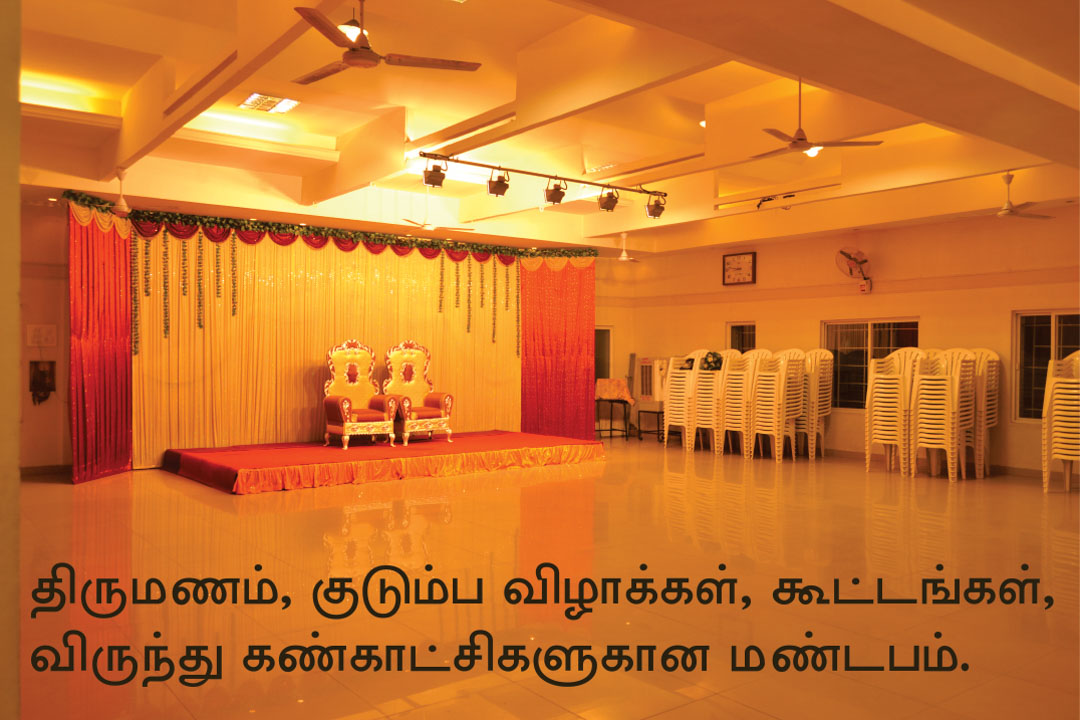
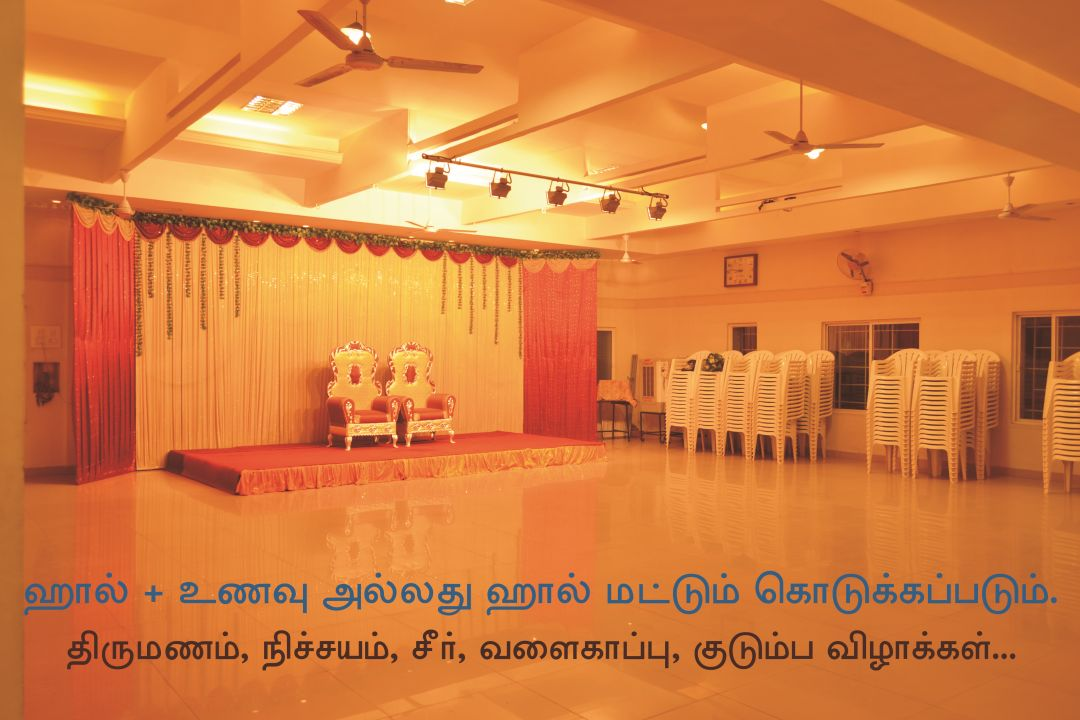
feat: mm content changes

diff --git a/docs/gallery.php.html b/docs/gallery.php.html
@@ -120,7 +120,7 @@
                 <div class="gallery-image-card"><img src="01_You%20can%20choose%20from%20a%20variety%20of%20backdrops_Best%20marriage%20hall%20on%20Trichy%20Road,%20near%20Ondipudur,%20Sulur.jpg" class="img-responsive" alt="Best marriage hall on Trichy Road, near Ondipudur, Sulur"><div class="gallery-img-tag-container text-center"><span class="display-5">You can choose from a variety of backdrops</span></div></div><div class="gallery-image-card"><img src="02_Hall%20is%20located%20on%20Trichy%20road_Easily%20reachable%20hall%20on%20main%20road,%20Coimbatore.jpg" class="img-responsive" alt="Easily reachable hall on main road, Coimbatore"><div class="gallery-img-tag-container text-center"><span class="display-5">Hall is located on Trichy road</span></div></div><div class="gallery-image-card"><img src="03_Another%20part%20of%20dining_Mini%20function%20hall%20near%20S%20I%20H%20S%20colony,%20SIHS%20colony.jpg" class="img-responsive" alt="Mini function hall near S I H S colony, SIHS colony"><div class="gallery-img-tag-container text-center"><span class="display-5">Another part of dining</span></div></div><div class="gallery-image-card"><img src="04_In-house%20full%20genset%20backup_Function%20Hall%20with%20Genset%20backup%20at%20Coimbatore.jpg" class="img-responsive" alt="Function Hall with Genset backup at Coimbatore"><div class="gallery-img-tag-container text-center"><span class="display-5">In-house full genset backup</span></div></div><div class="gallery-image-card"><img src="05_Backdrop%20with%20planters_Hall%20near%20Pappampatti,%20Kelangal,%20Ravathur,%20Sulur,%20Kadampadi,%20Peelamedu,%20Kannampalayam,%20Nadupalayam.jpg" class="img-responsive" alt="Hall near Pappampatti, Kelangal, Ravathur, Sulur, Kadampadi, Peelamedu, Kannampalayam, Nadupalayam"><div class="gallery-img-tag-container text-center"><span class="display-5">Backdrop with planters</span></div></div><div class="gallery-image-card"><img src="06_Another%20attractive%20background_Marriage%20hall,%20venue%20near%20Vellalore,%20Peedampalli,%20Coimbatore.jpg" class="img-responsive" alt="Marriage hall, venue near Vellalore, Peedampalli, Coimbatore"><div class="gallery-img-tag-container text-center"><span class="display-5">Another attractive background</span></div></div>            </div>
 
             <div class="gallery-flex-coloumn">
-                <div class="gallery-image-card"><img src="01_A%20view%20of%20main%20hall%20seating_Simple%20hall%20with%20catering.jpg" class="img-responsive" alt="Simple hall with catering"><div class="gallery-img-tag-container text-center"><span class="display-5">A view of main hall seating</span></div></div><div class="gallery-image-card"><img src="02_Another%20backdrop%20option_Cheap%20function%20hall%20at%20Singanallur,%20Coimabatore.jpg" class="img-responsive" alt="Cheap function hall at Singanallur, Coimabatore"><div class="gallery-img-tag-container text-center"><span class="display-5">Another backdrop option</span></div></div><div class="gallery-image-card"><img src="03_Well%20ventilated,%20clean%20kitchen_Small%20function%20hall%20on%20main%20road%20in%20Coimbatore.jpg" class="img-responsive" alt="Small function hall on main road in Coimbatore"><div class="gallery-img-tag-container text-center"><span class="display-5">Well ventilated, clean kitchen</span></div></div><div class="gallery-image-card"><img src="04_Main%20hall%20has%20a%20tent%20cooler_Hall%20for%20exhibition%20at%20Singanallur,%20Coimbatore,%20Wedding%20hall%20for%20promotions,%20sales%20at%20Coimbatore.jpg" class="img-responsive" alt="Hall for exhibition at Singanallur, Coimbatore, Wedding hall for promotions, sales at Coimbatore"><div class="gallery-img-tag-container text-center"><span class="display-5">Main hall has a tent cooler</span></div></div><div class="gallery-image-card"><img src="05_Hand%20wash_Marriage%20hall%20with%20dining%20and%20kitchen.jpg" class="img-responsive" alt="Marriage hall with dining and kitchen"><div class="gallery-img-tag-container text-center"><span class="display-5">Hand wash</span></div></div><div class="gallery-image-card"><img src="06_Backdrop%20with%20color%20changing%20LED_Marriage%20hall%20back%20drop%20at%20Coimbatore.jpg" class="img-responsive" alt="Marriage hall back drop at Coimbatore"><div class="gallery-img-tag-container text-center"><span class="display-5">Backdrop with color changing LED</span></div></div>            </div>
+                <div class="gallery-image-card"><img src="01_A%20view%20of%20main%20hall%20seating_Simple%20hall%20with%20catering.jpg" class="img-responsive" alt="Simple hall with catering"><div class="gallery-img-tag-container text-center"><span class="display-5">A view of main hall seating</span></div></div><div class="gallery-image-card"><img src="02_Another%20backdrop%20option_Cheap%20function%20hall%20at%20Singanallur,%20Coimabatore.jpg" class="img-responsive" alt="Cheap function hall at Singanallur, Coimabatore"><div class="gallery-img-tag-container text-center"><span class="display-5">Another backdrop option</span></div></div><div class="gallery-image-card"><img src="03_Well%20ventilated,%20clean%20kitchen_Small%20function%20hall%20on%20main%20road%20in%20Coimbatore.jpg" class="img-responsive" alt="Small function hall on main road in Coimbatore"><div class="gallery-img-tag-container text-center"><span class="display-5">Well ventilated, clean kitchen</span></div></div><div class="gallery-image-card"><img src="04_Main%20hall%20has%20a%20cooler_Hall%20for%20exhibition%20at%20Singanallur,%20Coimbatore,%20Wedding%20hall%20for%20promotions,%20sales%20at%20Coimbatore.jpg" class="img-responsive" alt="Hall for exhibition at Singanallur, Coimbatore, Wedding hall for promotions, sales at Coimbatore"><div class="gallery-img-tag-container text-center"><span class="display-5">Main hall has a cooler</span></div></div><div class="gallery-image-card"><img src="05_Hand%20wash_Marriage%20hall%20with%20dining%20and%20kitchen.jpg" class="img-responsive" alt="Marriage hall with dining and kitchen"><div class="gallery-img-tag-container text-center"><span class="display-5">Hand wash</span></div></div><div class="gallery-image-card"><img src="06_Backdrop%20with%20color%20changing%20LED_Marriage%20hall%20back%20drop%20at%20Coimbatore.jpg" class="img-responsive" alt="Marriage hall back drop at Coimbatore"><div class="gallery-img-tag-container text-center"><span class="display-5">Backdrop with color changing LED</span></div></div>            </div>
         </div>
 
         <!--The footer-->

diff --git a/docs/index.html b/docs/index.html
@@ -111,7 +111,7 @@
             <div class="carousel-inner">
                 <div class="item">
                             <div class="carousel-images-row">
-                                <div class="carousel-image-container col-md-6 col-xs-12"><img src="01_Budget%20marriage%20hall%20at%20Singanallur,%20Coimbatore.jpg" class="img-responsive" alt="Budget marriage hall at Singanallur, Coimbatore"></div>
+                                <div class="carousel-image-container col-md-6 col-xs-12"><img src="01_Cheap%20and%20best%20Budget%20marriage%20hall%20with%20food%20at%20Singanallur,%20Coimbatore.jpg" class="img-responsive" alt="Cheap and best Budget marriage hall with food at Singanallur, Coimbatore"></div>
                                 <div class="carousel-image-container col-md-6 col-xs-12 conditional-display"><img src="02_Hall%20for%20marriages,%20family%20functions,%20parties,%20birthday%20parties,%20events,%20banquets,exhibitions.jpg" class="img-responsive" alt="Hall for marriages, family functions, parties, birthday parties, events, banquets,exhibitions"></div>
                             </div>
                         </div>
@@ -134,13 +134,13 @@
                         </div><div class="item">
                             <div class="carousel-images-row">
                                 <div class="carousel-image-container col-md-6 col-xs-12"><img src="05_Hall%20near%20Pappampatti,%20Kelangal,%20Ravathur,%20Sulur,%20Kadampadi,%20Peelamedu,%20Kannampalayam,%20Nadupalayam.jpg" class="img-responsive" alt="Hall near Pappampatti, Kelangal, Ravathur, Sulur, Kadampadi, Peelamedu, Kannampalayam, Nadupalayam"></div>
-                                <div class="carousel-image-container col-md-6 col-xs-12 conditional-display"><img src="06_Budget%20marriage%20hall%20at%20Singanallur,%20Coimbatore.jpg" class="img-responsive" alt="Budget marriage hall at Singanallur, Coimbatore"></div>
+                                <div class="carousel-image-container col-md-6 col-xs-12 conditional-display"><img src="06_Budget%20marriage%20hall,%20kalyana%20mndapam%20with%20food%20at%20Singanallur,%20Coimbatore.jpg" class="img-responsive" alt="Budget marriage hall, kalyana mndapam with food at Singanallur, Coimbatore"></div>
                             </div>
                         </div>
 
                         <div class="item carousel-alt-item">
                             <div class="carousel-images-row">
-                                <div class="carousel-image-container col-xs-12"><img src="06_Budget%20marriage%20hall%20at%20Singanallur,%20Coimbatore.jpg" class="img-responsive" alt="Budget marriage hall at Singanallur, Coimbatore"></div>
+                                <div class="carousel-image-container col-xs-12"><img src="06_Budget%20marriage%20hall,%20kalyana%20mndapam%20with%20food%20at%20Singanallur,%20Coimbatore.jpg" class="img-responsive" alt="Budget marriage hall, kalyana mndapam with food at Singanallur, Coimbatore"></div>
                             </div>
                         </div>            </div>
         </div>
@@ -156,14 +156,17 @@
             <div class="col-md-6 mainContent2 content-text2 main-content-padding">
                 <div class="container-fluid">
                     <div class="container-fluid content-spacing-1">
-                                <span class="display-2 font-purple">150+ Seats</span>
+                                <span class="display-2 font-purple">150 Seats</span>
                                 <p class="font-home-content2">in Main Hall</p>
                             </div><div class="container-fluid content-spacing-1">
-                                <span class="display-2 font-purple">80+ Seats</span>
+                                <span class="display-2 font-purple">80 Seats</span>
                                 <p class="font-home-content2">in Dining</p>
                             </div><div class="container-fluid content-spacing-1">
                                 <span class="display-2 font-purple">AC Rooms</span>
-                                <p class="font-home-content2">not 1 but 2!</p>
+                                <p class="font-home-content2">for bride and groom</p>
+                            </div><div class="container-fluid content-spacing-1">
+                                <span class="display-2 font-purple">You can book our hall with food or without food</span>
+                                <p class="font-home-content2"></p>
                             </div>                </div>
 
             </div>

diff --git a/docs/index.php.html b/docs/index.php.html
@@ -111,7 +111,7 @@
             <div class="carousel-inner">
                 <div class="item">
                             <div class="carousel-images-row">
-                                <div class="carousel-image-container col-md-6 col-xs-12"><img src="01_Budget%20marriage%20hall%20at%20Singanallur,%20Coimbatore.jpg" class="img-responsive" alt="Budget marriage hall at Singanallur, Coimbatore"></div>
+                                <div class="carousel-image-container col-md-6 col-xs-12"><img src="01_Cheap%20and%20best%20Budget%20marriage%20hall%20with%20food%20at%20Singanallur,%20Coimbatore.jpg" class="img-responsive" alt="Cheap and best Budget marriage hall with food at Singanallur, Coimbatore"></div>
                                 <div class="carousel-image-container col-md-6 col-xs-12 conditional-display"><img src="02_Hall%20for%20marriages,%20family%20functions,%20parties,%20birthday%20parties,%20events,%20banquets,exhibitions.jpg" class="img-responsive" alt="Hall for marriages, family functions, parties, birthday parties, events, banquets,exhibitions"></div>
                             </div>
                         </div>
@@ -134,13 +134,13 @@
                         </div><div class="item">
                             <div class="carousel-images-row">
                                 <div class="carousel-image-container col-md-6 col-xs-12"><img src="05_Hall%20near%20Pappampatti,%20Kelangal,%20Ravathur,%20Sulur,%20Kadampadi,%20Peelamedu,%20Kannampalayam,%20Nadupalayam.jpg" class="img-responsive" alt="Hall near Pappampatti, Kelangal, Ravathur, Sulur, Kadampadi, Peelamedu, Kannampalayam, Nadupalayam"></div>
-                                <div class="carousel-image-container col-md-6 col-xs-12 conditional-display"><img src="06_Budget%20marriage%20hall%20at%20Singanallur,%20Coimbatore.jpg" class="img-responsive" alt="Budget marriage hall at Singanallur, Coimbatore"></div>
+                                <div class="carousel-image-container col-md-6 col-xs-12 conditional-display"><img src="06_Budget%20marriage%20hall,%20kalyana%20mndapam%20with%20food%20at%20Singanallur,%20Coimbatore.jpg" class="img-responsive" alt="Budget marriage hall, kalyana mndapam with food at Singanallur, Coimbatore"></div>
                             </div>
                         </div>
 
                         <div class="item carousel-alt-item">
                             <div class="carousel-images-row">
-                                <div class="carousel-image-container col-xs-12"><img src="06_Budget%20marriage%20hall%20at%20Singanallur,%20Coimbatore.jpg" class="img-responsive" alt="Budget marriage hall at Singanallur, Coimbatore"></div>
+                                <div class="carousel-image-container col-xs-12"><img src="06_Budget%20marriage%20hall,%20kalyana%20mndapam%20with%20food%20at%20Singanallur,%20Coimbatore.jpg" class="img-responsive" alt="Budget marriage hall, kalyana mndapam with food at Singanallur, Coimbatore"></div>
                             </div>
                         </div>            </div>
         </div>
@@ -156,14 +156,17 @@
             <div class="col-md-6 mainContent2 content-text2 main-content-padding">
                 <div class="container-fluid">
                     <div class="container-fluid content-spacing-1">
-                                <span class="display-2 font-purple">150+ Seats</span>
+                                <span class="display-2 font-purple">150 Seats</span>
                                 <p class="font-home-content2">in Main Hall</p>
                             </div><div class="container-fluid content-spacing-1">
-                                <span class="display-2 font-purple">80+ Seats</span>
+                                <span class="display-2 font-purple">80 Seats</span>
                                 <p class="font-home-content2">in Dining</p>
                             </div><div class="container-fluid content-spacing-1">
                                 <span class="display-2 font-purple">AC Rooms</span>
-                                <p class="font-home-content2">not 1 but 2!</p>
+                                <p class="font-home-content2">for bride and groom</p>
+                            </div><div class="container-fluid content-spacing-1">
+                                <span class="display-2 font-purple">You can book our hall with food or without food</span>
+                                <p class="font-home-content2"></p>
                             </div>                </div>
 
             </div>

diff --git a/docs/facilities.php.html b/docs/facilities.php.html
@@ -113,11 +113,11 @@
         <div class="container text-center features-outer-container">
             <div class="col-lg-2 col-md-4 col-xs-6 feature-container">
                         <div class="feature-box">
-                            <span class="display-feature-responsive font-lightGrey">150+ seats in Main Hall</span>
+                            <span class="display-feature-responsive font-lightGrey">140 seats in Main Hall</span>
                         </div>
                     </div><div class="col-lg-2 col-md-4 col-xs-6 feature-container">
                         <div class="feature-box">
-                            <span class="display-feature-responsive font-lightGrey">90+ Seats in Dining Hall</span>
+                            <span class="display-feature-responsive font-lightGrey">80 Seats in Dining Hall</span>
                         </div>
                     </div><div class="col-lg-2 col-md-4 col-xs-6 feature-container">
                         <div class="feature-box">
@@ -142,8 +142,8 @@
                             <div class="text-center container">
                                 <div class="list-title-container"><h1 class="display-1-5-responsive-2">Space & Capacity</h1></div>
                                 <div class="list-container" id="spacing-facilities"><div class="display-4-responsive facilities-item">Main hall has <mark>seating</mark> facility of <mark>150</mark>
-                                            <span class="font-grey-lighter">&nbsp;</span></div><div class="display-4-responsive facilities-item"><mark>Dining</mark> can accomodate <mark>90 people</mark>
-                                            <span class="font-grey-lighter">&nbsp;</span></div><div class="display-4-responsive facilities-item"><mark>Welcome Area</mark> can take <mark>50 persons</mark>.
+                                            <span class="font-grey-lighter">&nbsp;</span></div><div class="display-4-responsive facilities-item"><mark>Dining</mark> can accomodate <mark>80 people</mark>
+                                            <span class="font-grey-lighter">&nbsp;</span></div><div class="display-4-responsive facilities-item"><mark>Welcome Area</mark> can take <mark>30 persons</mark>.
                                             <span class="font-grey-lighter">&nbsp;</span></div><div class="display-4-responsive facilities-item">There are <mark>air-conditioned</mark> rooms
                                             <span class="font-grey-lighter">&nbsp;These rooms can also be used as Bride & Groom rooms</span></div><div class="display-4-responsive facilities-item">A <mark>kitchen</mark> is <mark>attached</mark> to the facility 
                                             <span class="font-grey-lighter">&nbsp;Catering from outside also allowed</span></div></div>
@@ -151,7 +151,7 @@
                     </div><div class="container-fluid list-container">
                             <div class="text-center container">
                                 <div class="list-title-container"><h1 class="display-1-5-responsive-2">Just for You</h1></div>
-                                <div class="list-container" id="spacing-facilities"><div class="display-4-responsive facilities-item">The main hall is <mark>air cooled</mark> with tent cooler
+                                <div class="list-container" id="spacing-facilities"><div class="display-4-responsive facilities-item">The main hall is <mark>air cooled</mark>
                                             <span class="font-grey-lighter">&nbsp;</span></div><div class="display-4-responsive facilities-item">Power backup is available with a <mark>modern generator</mark>
                                             <span class="font-grey-lighter">&nbsp;</span></div><div class="display-4-responsive facilities-item">Furniture like <mark>chairs</mark>, <mark>dining</mark> & <mark>tables</mark> are <mark>free</mark> for you.
                                             <span class="font-grey-lighter">&nbsp;</span></div><div class="display-4-responsive facilities-item">Also <mark>vessels</mark> for cooking and serving are also <mark>free for use</mark>
